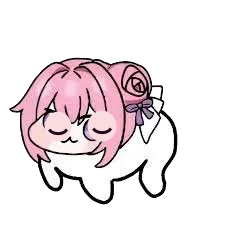
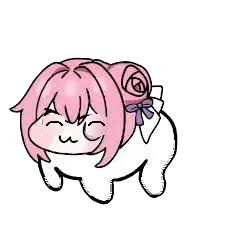
fix: normalize Dororong body stroke and closed eyes

diff --git a/artifacts/work-reports/dororong-stroke-eye-correction-report.md b/artifacts/work-reports/dororong-stroke-eye-correction-report.md
@@ -1,0 +1,62 @@
+# Dororong body-stroke and closed-eye correction report
+
+## Outcome
+
+The exact 225x225 production assets now use an explicit 185-pixel body-outline fixture to reduce the audited rear-rim and clean leg-side dark cores to two pixels, and the sleep/blink frame uses explicit left/right eye stencils with source-derived face gradients and centered two-pixel closed lids. The pinned source PNG remains byte-identical.
+
+Asset-only visual result: PASS for the two exact repository PNGs at native 225x225 and WPF `HighQuality` 96x96 rendering. Actual-Windows visual acceptance remains UNVERIFIED pending manual attempt 4.
+
+## TDD evidence
+
+- Initial RED: `dotnet build src/Dororong.App/Dororong.App.csproj -c Release` exited 0 with 0 warnings and 0 errors; then `pwsh -NoProfile -File tests/Dororong.App.ExactArt.Tests.ps1 -Configuration Release` exited 1 against the old assets because `(99,110)` changed outside the new explicit eye stencil. This proved the old broad closed-eye patch was caught before generator changes.
+- Expanded-body RED: after adding the clean leg-side fixture and probes to the real-file test, `pwsh -NoProfile -File tests/Dororong.App.ExactArt.Tests.ps1 -Configuration Release` exited 1 against the rear-only intermediate asset: `Expected '185', observed '49'`.
+- GREEN: `pwsh -NoProfile -File tools/Generate-CanonicalArt.ps1 -SourcePath src/Dororong.App/Assets/dororong-canonical-source.png -OutputDirectory src/Dororong.App/Assets` and the focused exact-art test both exited 0 after the fixed fixture implementation.
+- One experimental row-local eye-color lookup exited 1 at `(86,116)` and, after one evidence-based cutoff adjustment, again at `(85,117)`. That lookup mechanism was abandoned and is not retained. The materially different fixed pinned-anchor bilinear face mapping regenerated successfully and passed the focused check.
+
+## Exact artifacts and pixel counts
+
+| Artifact | SHA-256 |
+|---|---|
[3 lines of base64/hex data omitted]
+
+- Source to transparent production: 33,187 changed pixels total: 33,002 alpha-only boundary-background changes plus exactly 185 RGB body-fixture changes.
+- Corrected production to closed-eye frame: exactly 857 changed pixels: 423 in the left stencil and 434 in the right stencil; 76 are changed dark-core lid pixels.
+- Production RGB changes outside the exact 185-coordinate body fixture: 0.
+- Closed-frame changes outside the two explicit eye stencils: 0.
+- Open/closed alpha differences: 0.
+- `#FADCE0` pixels in either eye ROI: 0.
+- `git diff --exit-code -- src/Dororong.App/Assets/dororong-canonical-source.png` exited 0.
+
+## Visual-check record
+
+Claim scope: asset-only correction of `dororong-canonical.png` and `dororong-closed-eyes.png` at exact 225x225 file rendering and runtime-representative WPF `HighQuality` 96x96 rendering. Sources are the approved source PNG, `artifacts/work-reports/dororong-stroke-eye-correction-brief.md`, and section 8 of `docs/specs/2026-08-26-dororong-m1-design.md`.
+
+| Check | Expected observable | Observed fact | Verdict |
+|---|---|---|---|
+| Source identity | Outer silhouette, hair/body layer order, no-tail rear profile, ribbon/rose geometry, and open-eye centers remain anchored to the approved source. | The source hash is unchanged; production alpha follows the same boundary mask; RGB differs only at the body fixture. Both final native frames retain the no-tail profile, rose/ribbons, hair geometry, and face placement. | PASS |
+| Body dark-core weight | Rear rim and clean leg-side contours read with the roughly two-pixel hair-core weight while the exterior alpha fringe and joints remain intact. | Eleven literal probes report exactly two dark-core pixels. At native size the rear rim and six clean leg sides are visibly lighter and continuous; the 96x96 render retains a connected silhouette without moving the exterior edge. | PASS |
+| Closed-eye integration | Closed lids are centered at the original eye locations, remain part of the face, and show no opaque flat-color discs. | Both lids sit within the original left/right eye spans and use two-pixel stepped arcs. The face reconstruction varies through pinned source-derived gradients; `#FADCE0` count is zero. At native and 96x96 sizes the pose reads as closed eyes without detached overlays. | PASS |
+| State-family invariants | Open and closed frames retain identical alpha and all non-fixture pixels, including bangs and hair borders. | Pixel audit found 0 alpha differences and 0 closed-frame changes outside the explicit eye stencils; the final native and 96x96 renders preserve hair/bang boundaries and accessory order. | PASS |
+| Actual-Windows acceptance boundary | A new rendered application attempt must confirm the correction in the live target before Windows visual acceptance. | No manual attempt 4 was performed in this task. | UNVERIFIED boundary |
+
+## Fresh final verification
+
+All commands ran from `D:\JOEWRKS\.worktrees\DororongDesktopPet-m1` after the final generator write.
+
+| Command | Result |
+|---|---|
+| `dotnet restore DororongDesktopPet.sln` | exit 0; all projects up to date |
+| `dotnet test DororongDesktopPet.sln --configuration Release --no-restore` | exit 0; 78 passed, 0 failed, 0 skipped |
+| `dotnet build DororongDesktopPet.sln --configuration Release --no-restore` | exit 0; 0 warnings, 0 errors |
+| `pwsh -NoProfile -File tests/Dororong.App.ExactArt.Tests.ps1 -Configuration Release` | exit 0; exact-art PASS |
+| `pwsh -NoProfile -File tests/Dororong.App.RuntimeComposition.Tests.ps1 -Configuration Release` | exit 0; runtime-composition PASS |
+| `pwsh -NoProfile -File tests/Dororong.App.DraggedAngle.Tests.ps1 -Configuration Release` | exit 0; dragged-angle PASS |
+
+## Scope and limitations
+
+- `WALK`, `CLICK_REACTION`, presenter transforms, alpha-aware hit testing, and behavior-core logic were not changed.
+- The exact source file was not modified.
+- The two pre-existing untracked manual-attempt-2 and manual-attempt-3 reports were left untouched and uncommitted.
+- This work verifies the repository assets and automated runtime contracts only. It does not upgrade any actual-Windows GUI item or complete Milestone 1; manual attempt 4 is still required.

diff --git a/docs/specs/2026-08-26-dororong-m1-design.md b/docs/specs/2026-08-26-dororong-m1-design.md
@@ -121,7 +121,11 @@ Milestone 1 uses only the primary monitor work area and respects the taskbar bou
 
 The core exposes state, facing, and normalized phase; it does not know about images, storyboards, or WPF controls. `Dororong.App` maps these values to a replaceable character presenter.
 
-The presenter uses the exact user-supplied canonical Dororong source. Dororong has no tail; the white shapes behind the rose and bow are ribbons. The persisted source is the visual authority and must not be regenerated, redrawn, beautified, recolored, widened, or otherwise reinterpreted. The transparent production frame removes only near-white background connected to the source image boundary, retains source RGB and coordinates for every character pixel, adds no geometry, shadow, decoration, or filled transparent rectangle, and supplies the same canonical frame to every state except sleep and blink. A deterministic sleep/blink frame may change only bounded eye regions to closed-eye marks; every pixel outside those regions must match the canonical production frame.
[1 lines of base64/hex data omitted]
+
+The transparent production frame removes only near-white background connected to the source image boundary and preserves the resulting exterior silhouette and alpha fringe. Its sole RGB exception is the explicit, fixed body-outline fixture in the canonical-art generator: approved inner dark-core pixels on the rear rim and clean leg-side contours are replaced with adjacent source-derived body color so the audited dark core is two pixels. Every production pixel outside that fixture retains source RGB and coordinates; no global erosion, threshold transform, new geometry, shadow, decoration, or filled transparent rectangle is permitted.
+
+The deterministic sleep/blink frame starts from that corrected production frame, retains identical alpha, and may change RGB only inside the explicit left eye stencil within `x=43..72,y=105..143` and right eye stencil within `x=86..118,y=105..143`. Those stencils remove the open eyes with gradients derived from pinned local face pixels and add centered two-pixel dark-core lids. Opaque `#FADCE0` fill ellipses and broad unclipped patches are forbidden; bangs, hair borders, and every pixel outside the two eye stencils remain bit-identical to the corrected production frame.
 
 Existing presenter transforms make states visibly distinct through pose and motion:
 
@@ -133,7 +137,7 @@ Existing presenter transforms make states visibly distinct through pose and moti
 - DRAGGED: hanging stretch toward the grab point;
 - SLEEP: lowered body, closed eyes, and slow breathing.
 
-Canonical-art asset identity, boundary-connected transparency, retained pixels, bounded eye changes, and presenter state-to-frame mapping are automated contracts. Those checks do not prove cross-process click-through, focus preservation, or the rendered Windows appearance; those remain actual-Windows observations.
+Canonical-art asset identity, boundary-connected transparency, the exact body-fixture allowlist and audited two-pixel probes, explicit eye-stencil confinement, open/closed alpha identity, forbidden eye-patch color absence, closed-lid presence, and presenter state-to-frame mapping are automated contracts. Those checks do not prove cross-process click-through, focus preservation, or the rendered Windows appearance; those remain actual-Windows observations.
 
 ## 9. Failure and cleanup behavior
 

diff --git a/README.md b/README.md
@@ -35,7 +35,7 @@ Transparent parts of Dororong's window are intended to pass pointer input throug
 
 ## Milestone 1 boundaries
 
-Milestone 1 uses the primary monitor's work area only; polished multi-monitor behavior is not included. The presenter uses the exact user-supplied canonical Dororong raster art. That character has no tail: the white shapes behind the rose and bow are ribbons. Production frames preserve the canonical character identity without redraw, recolor, added geometry, or other reinterpretation; only the bounded eye regions may differ in the deterministic sleep/blink frame.
+Milestone 1 uses the primary monitor's work area only; polished multi-monitor behavior is not included. The presenter uses the exact user-supplied canonical Dororong raster art. That character has no tail: the white shapes behind the rose and bow are ribbons. The pinned source remains byte-identical; production changes are limited to the fixed body-outline thinning fixture and, for sleep/blink, the two explicit eye stencils. All pixels outside those approved fixtures preserve canonical character identity without redraw, added geometry, or other reinterpretation.
 
 There are no settings screen, sound, auto-start, saved preferences or progression, accounts, cloud persistence, or polished multi-monitor behavior in this milestone.
 
